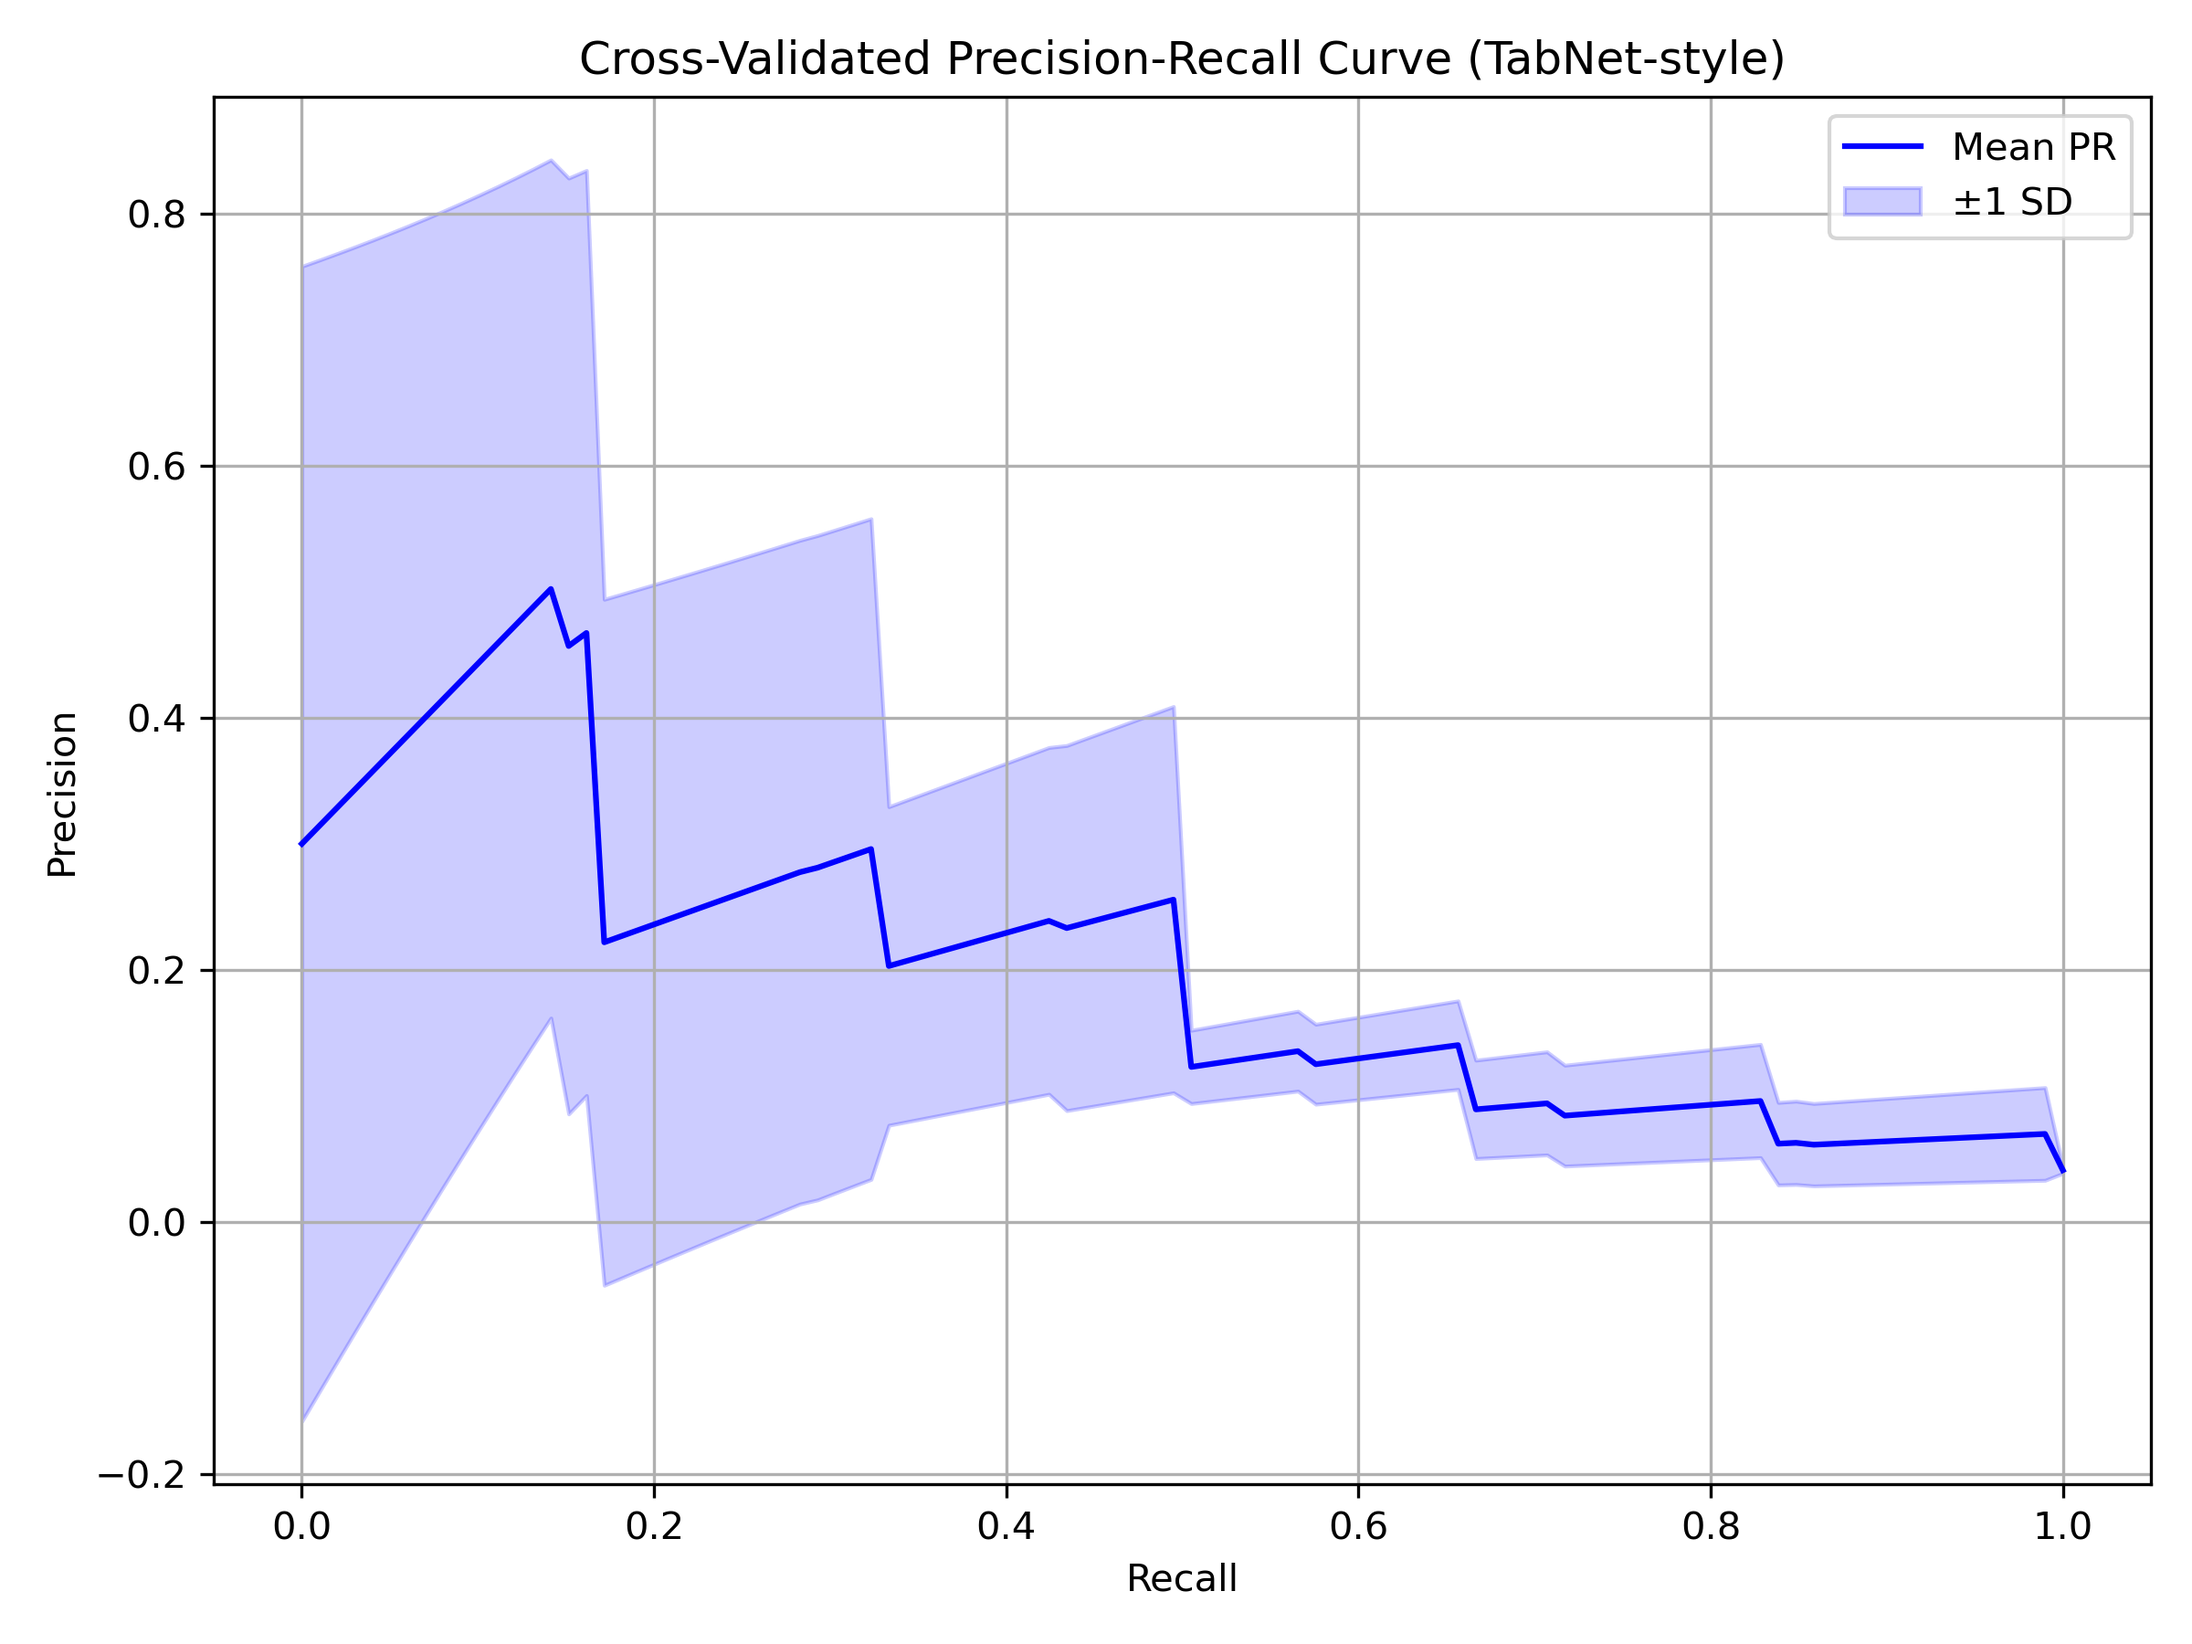
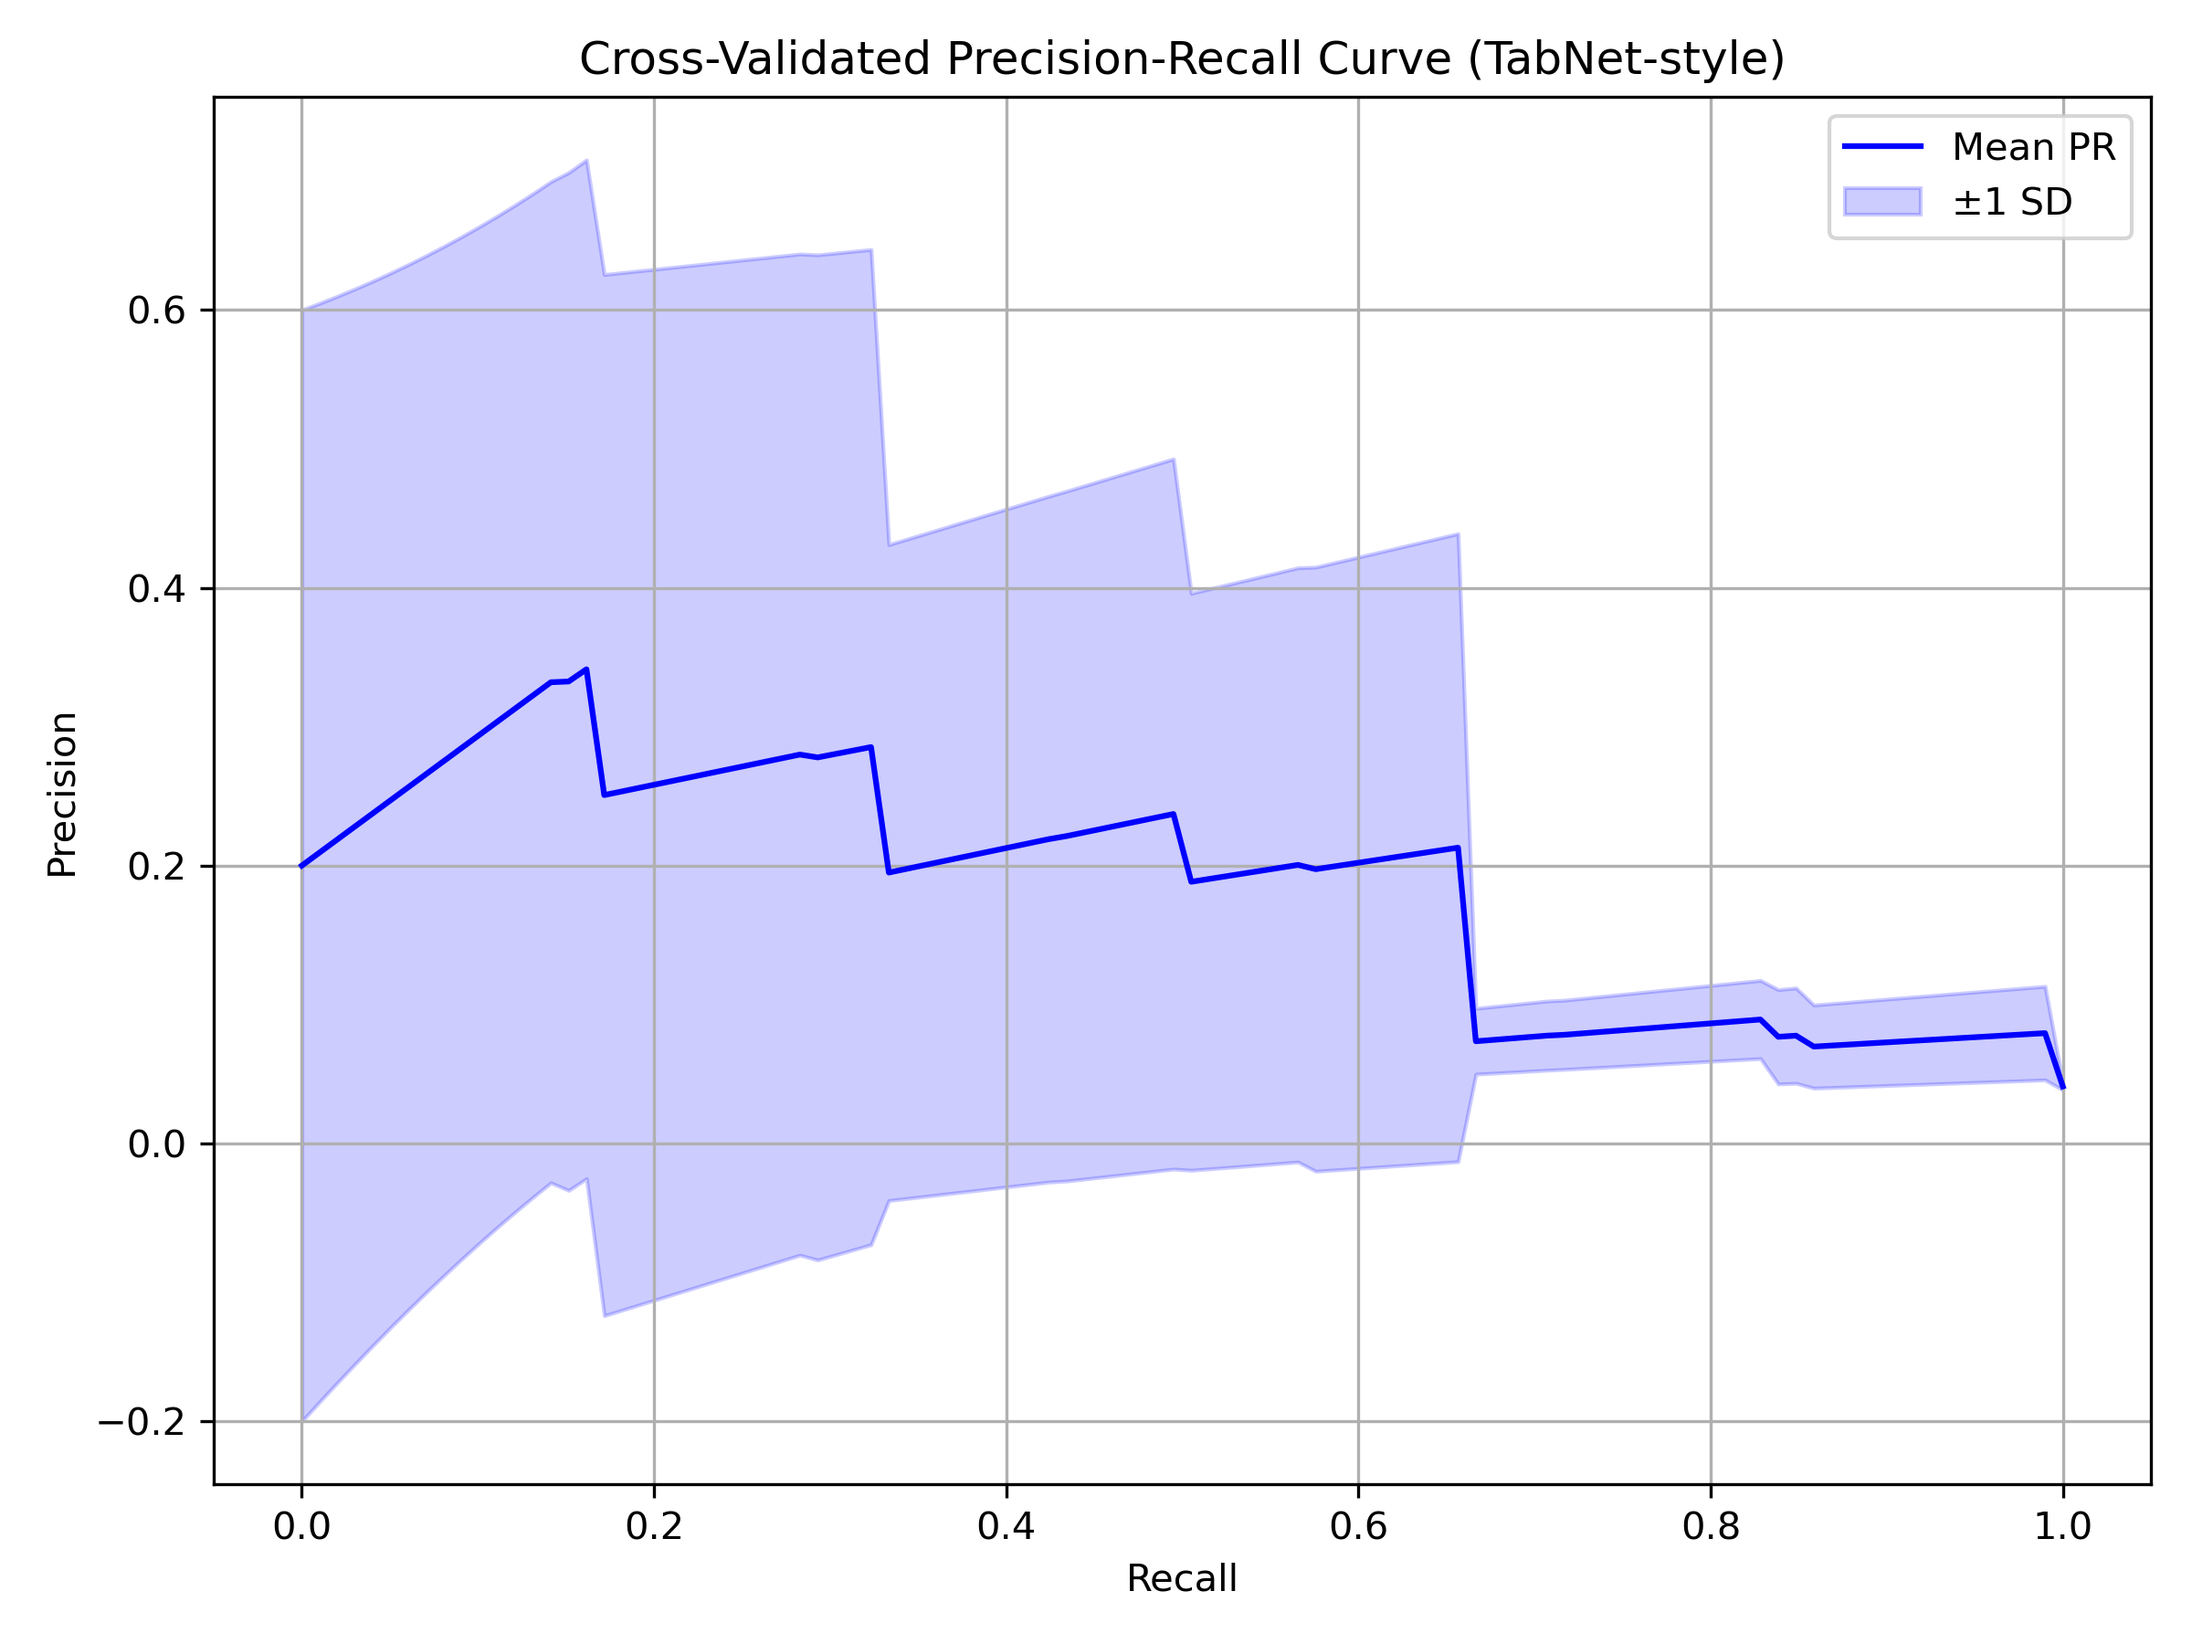
Baseline

diff --git a/Baseline.py b/Baseline.py
@@ -1,0 +1,108 @@
+import numpy as np
+import pandas as pd
+from sklearn.model_selection import StratifiedKFold
+from sklearn.linear_model import LogisticRegression
+from sklearn.metrics import roc_auc_score, precision_recall_curve, auc
+from sklearn.utils import class_weight
+import matplotlib.pyplot as plt
+
+# Load data
+df = pd.read_csv("Database/NACef_selected_features.csv")
+TARGET = "gen_hosp_death"
+FEATURES = [c for c in df.columns if c != TARGET]
+
+# Missing indicator
+for col in FEATURES:
+    df[col + "_missing"] = df[col].isna().astype(np.float32)
+    df[col] = df[col].fillna(0)
+FEATURES = FEATURES + [c + "_missing" for c in FEATURES]
+
+X = df[FEATURES].values
+y = df[TARGET].values
+
+print("Input shape:", X.shape)
+print("Positive rate:", y.mean())
+
+# Stratified K-Fold
+skf = StratifiedKFold(n_splits=5, shuffle=True, random_state=42)
+
+auroc_scores = []
+auprc_scores = []
+all_precisions = []
+all_recalls = []
+
+# Cross-validation
+fold = 1
+for train_idx, test_idx in skf.split(X, y):
+    print(f"\n===== Fold {fold} =====")
+    X_train, X_test = X[train_idx], X[test_idx]
+    y_train, y_test = y[train_idx], y[test_idx]
+
+    # Class weight
+    weights = class_weight.compute_class_weight(
+        class_weight="balanced",
+        classes=np.unique(y_train),
+        y=y_train
+    )
+    cw = {0: weights[0], 1: weights[1]}
+
+    # Logistic Regression with L2
+    model = LogisticRegression(
+        penalty="l2",
+        C=1.0,
+        solver="liblinear",
+        class_weight=cw,
+        max_iter=1000
+    )
+
+    model.fit(X_train, y_train)
+
+    # Predict probabilities
+    y_pred = model.predict_proba(X_test)[:, 1]
+
+    # Metrics
+    auroc = roc_auc_score(y_test, y_pred)
+    precision, recall, _ = precision_recall_curve(y_test, y_pred)
+    auprc = auc(recall, precision)
+
+    print(f"Fold {fold} AUROC: {auroc:.3f}, AUPRC: {auprc:.3f}")
+
+    auroc_scores.append(auroc)
+    auprc_scores.append(auprc)
+
+    # Interpolate PR curve
+    recall_grid = np.linspace(0, 1, 100)
+    interp_prec = np.interp(recall_grid, recall[::-1], precision[::-1])
+    all_precisions.append(interp_prec)
+    all_recalls.append(recall_grid)
+
+    fold += 1
+
+# Summary
+print("\n=== Logistic Regression CV Summary ===")
+print(f"Mean AUROC: {np.mean(auroc_scores):.3f} ± {np.std(auroc_scores):.3f}")
+print(f"Mean AUPRC: {np.mean(auprc_scores):.3f} ± {np.std(auprc_scores):.3f}")
+
+
+# Plot mean PR curve
+mean_prec = np.mean(all_precisions, axis=0)
+std_prec = np.std(all_precisions, axis=0)
+recall_grid = all_recalls[0]
+
+plt.figure(figsize=(8,6))
+plt.plot(recall_grid, mean_prec, label="Logistic Regression", color="darkorange")
+plt.fill_between(
+    recall_grid,
+    mean_prec - std_prec,
+    mean_prec + std_prec,
+    alpha=0.2,
+    color="darkorange"
+)
+plt.xlabel("Recall")
+plt.ylabel("Precision")
+plt.title("Precision–Recall Curve (Logistic Regression Baseline)")
+plt.legend()
+plt.grid(True)
+plt.tight_layout()
+plt.savefig("logistic_pr_curve.png", dpi=300)
+plt.show()

diff --git a/TabNet.py b/TabNet.py
@@ -53,16 +53,6 @@ print("Train size:", X_train.shape[0])
 print("Test size :", X_test.shape[0])
 
 
-# Cross-validation setup
-n_splits = 5
-skf = StratifiedKFold(n_splits=n_splits, shuffle=True, random_state=42)
-
-auprc_scores = []
-auroc_scores = []
-
-all_precisions = []
-all_recalls = []
-
 # Build the TablNet model
 def tabnet_like(input_dim, hidden_dim=32, n_steps=2, dropout=0.1, l2_lambda=0.001):
     inputs = Input(shape=(input_dim,))
@@ -91,6 +81,17 @@ def tabnet_like(input_dim, hidden_dim=32, n_steps=2, dropout=0.1, l2_lambda=0.00
     model = Model(inputs, outputs, name="Simplified_TabNet")
     return model
 
+# Cross-validation setup
+n_splits = 5
+N_ENSEMBLE = 3
+skf = StratifiedKFold(n_splits=n_splits, shuffle=True, random_state=42)
+
+auprc_scores = []
+auroc_scores = []
+
+all_precisions = []
+all_recalls = []
+
 # Cross-validation training
 fold = 1
 plt.figure(figsize=(8,6))
@@ -108,24 +109,31 @@ for train_idx, test_idx in skf.split(X, y):
     )
     class_weights = {0: weights[0], 1: weights[1]}
 
-    model = tabnet_like(X_train.shape[1], hidden_dim=32, n_steps=2, dropout=0.1, l2_lambda=0.001)
-    model.compile(
-        optimizer="adam",
-        loss="binary_crossentropy",
-        metrics=[AUC(name="auroc"), AUC(curve="PR", name="auprc"),
-            Precision(name="precision"), Recall(name="recall")]
-    )
-    #model.summary()
+    ensemble_preds = []
+
+    for e in range(N_ENSEMBLE):
+        print(f"  Training ensemble model {e+1}/{N_ENSEMBLE}")
+        model = tabnet_like(X_train.shape[1], hidden_dim=32, n_steps=2, dropout=0.2, l2_lambda=0.01)
+        model.compile(
+            optimizer="adam",
+            loss="binary_crossentropy",
+            metrics=[AUC(name="auroc"), AUC(curve="PR", name="auprc"),
+                Precision(name="precision"), Recall(name="recall")]
+        )
+        #model.summary()
 
 
-    # Train the model
-    model.fit(X_train, y_train, epochs=100, batch_size=32, class_weight=class_weights, verbose=0)
+        # Train the model
+        model.fit(X_train, y_train, epochs=50, batch_size=32, class_weight=class_weights, verbose=0)
 
-    y_pred = model.predict(X_test).ravel()
+        y_pred = model.predict(X_test).ravel()
+        ensemble_preds.append(y_pred)
+
+    y_pred_mean = np.mean(ensemble_preds, axis=0)
 
     # Evaluate the model
-    auroc = roc_auc_score(y_test, y_pred)
-    precision, recall, _ = precision_recall_curve(y_test, y_pred)
+    auroc = roc_auc_score(y_test, y_pred_mean)
+    precision, recall, _ = precision_recall_curve(y_test, y_pred_mean)
     auprc = auc(recall, precision)
     print(f"Fold {fold} AUROC: {auroc:.3f}, AUPRC: {auprc:.3f}")
 
@@ -158,3 +166,6 @@ plt.grid(True)
 plt.tight_layout()
 plt.savefig("tabnet_pr_curve.png", dpi=300)
 plt.show()
+
+
+
